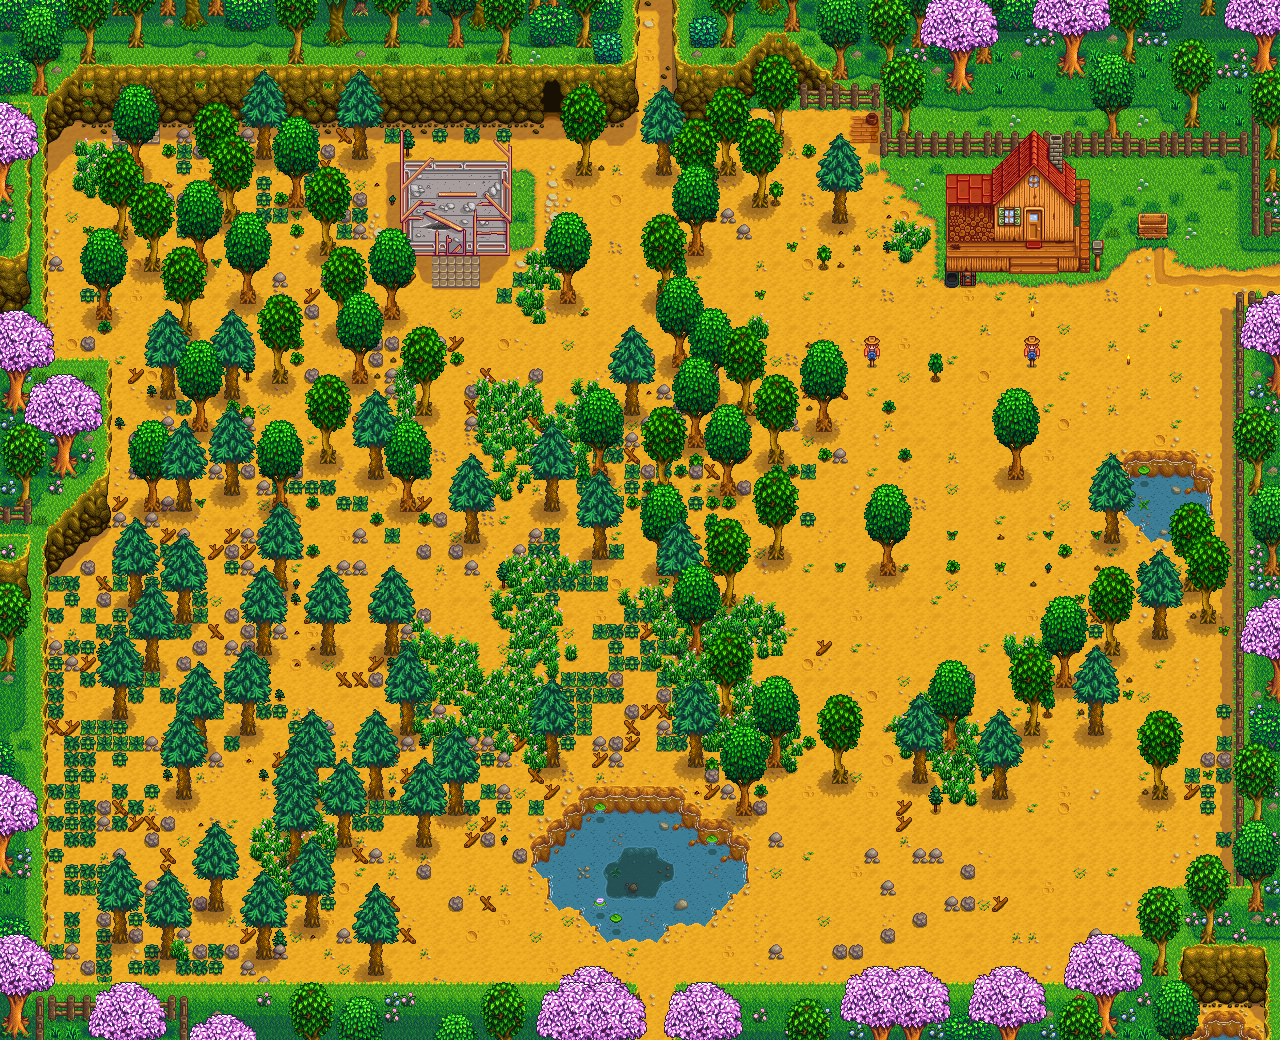
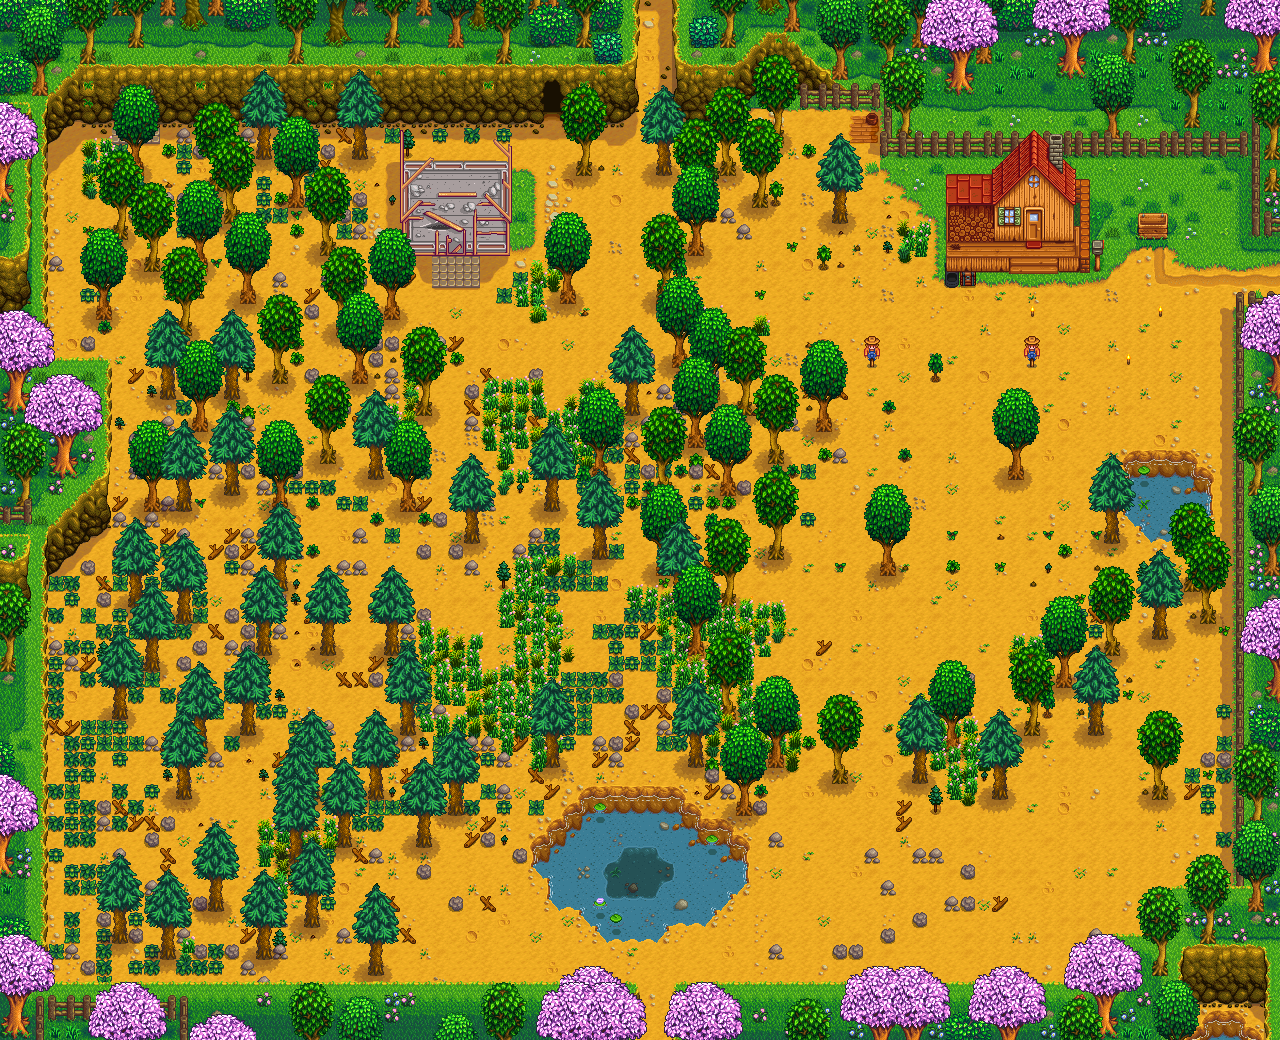
Align grass a bit more

diff --git a/view/draw.go b/view/draw.go
@@ -229,7 +229,7 @@ func drawGrass(pm *parser.Map, item *parser.TerrainItem, img draw.Image) {
 			idx = whichWeed[weed] * 15
 		}
 		sr := grassRect(idx, item.Value.TerrainFeature.GrassType)
-		r := sr.Sub(sr.Min).Add(image.Point{item.Key.Vector2.X*m.TileWidth + (offsetWeeds[2][i] - i%2*m.TileWidth/2),
+		r := sr.Sub(sr.Min).Add(image.Point{item.Key.Vector2.X*m.TileWidth + (offsetWeeds[2][i]),
 			item.Key.Vector2.Y*m.TileHeight - i%2*m.TileHeight/2 + offsetWeeds[3][i],
 		})
 		if flipWeed[i] {
